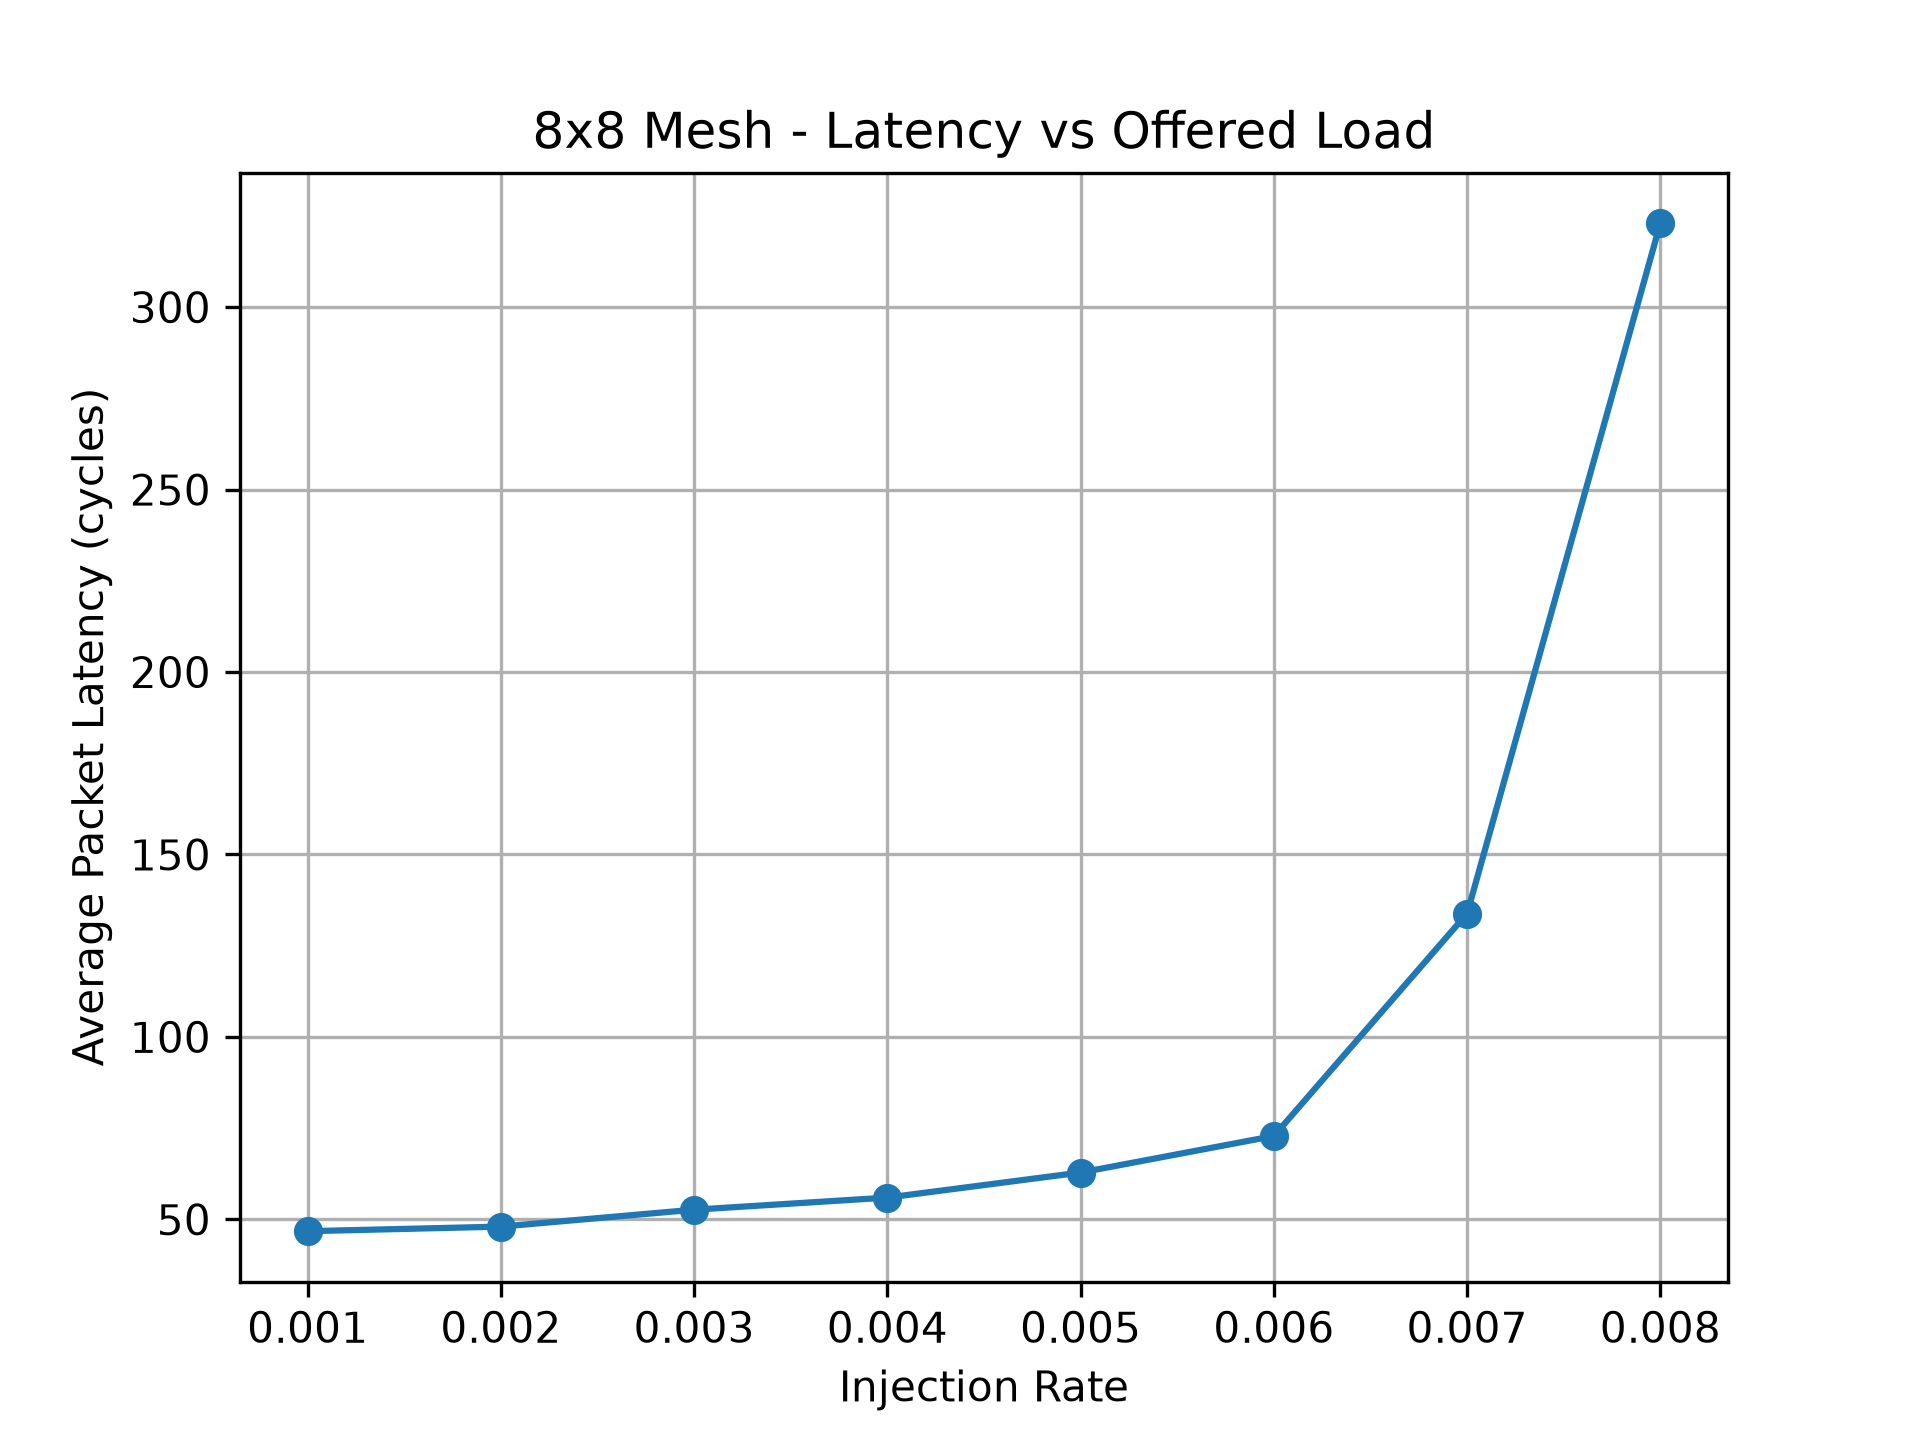
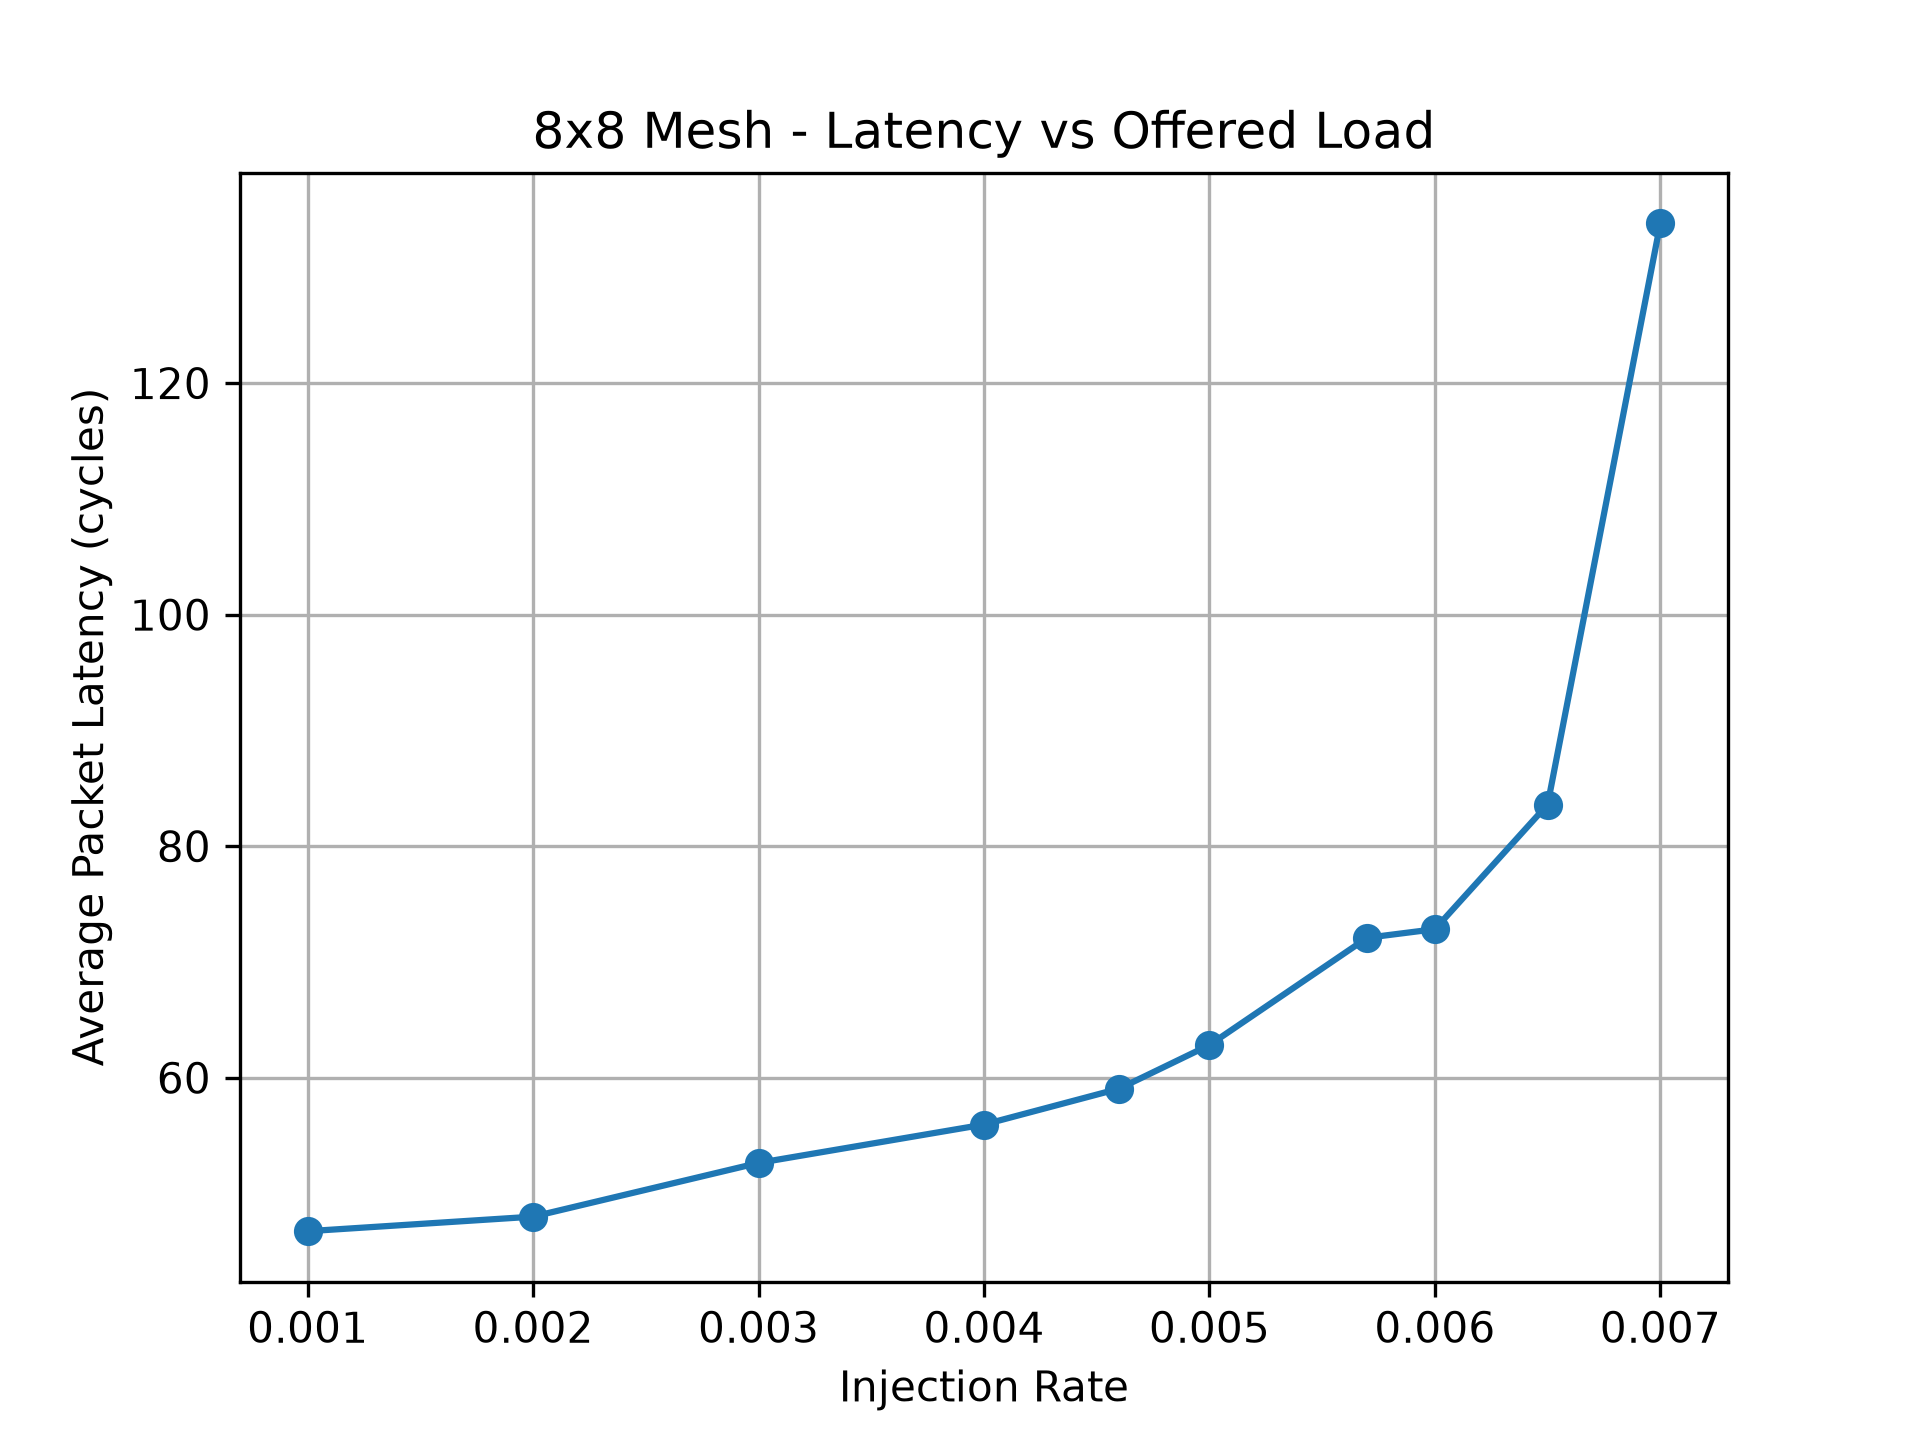
Update mesh and torus experiments

diff --git a/src/examples/run_mesh.py b/src/examples/run_mesh.py
@@ -10,12 +10,12 @@ rates = [
     0.002,
     0.003,
     0.004,
-    0.005,
+0.0046,
+ 0.005,
+0.0057,
     0.006,
-    0.007,
-    0.008,
-    0.0085,
-    0.009
+    0.0065,
+    0.0070
 ]
 
 results = []
